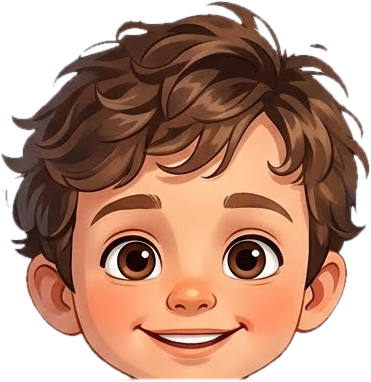
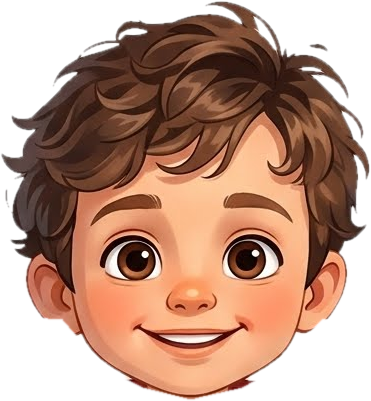
E rig: la cabeza original llega hasta su barbilla y la capucha de la pose A sube por detrás
Claude-Session: https://claude.ai/code/session_01CNkQy23Bon4aNcT4Rd2BkE

diff --git a/tools/split_apose.py b/tools/split_apose.py
@@ -42,6 +42,9 @@ ARM = {
 HAND_BOX = {'l': (205, 725, 285, 845), 'r': (620, 725, 700, 845)}
 CROTCH = 452
 ELBOW_R = 44                           # half the sleeve's width at the elbow
+# the original face's jaw line (outline included), measured on e-full.jpg
+JAW = [(300, 380), (330, 382), (350, 405), (380, 435), (410, 450), (458, 462), (510, 450), (545, 430), (565, 405),
+       (590, 382), (620, 380)]
 NECK_CUT = 440                         # the pose-A head goes, the original one goes on top
 
 # hand sheet: cells in e-pose-a.png coordinates (the x4 sheet starts at (10, 920))
@@ -126,8 +129,11 @@ def main():
     rgb = np.asarray(frame).astype(np.float64)
     alpha = cutout(rgb)
     yy, xx = np.mgrid[0:H, 0:W]
-    alpha = alpha * soft(yy >= NECK_CUT, 1.0)
     r, g, b = rgb[..., 0], rgb[..., 1], rgb[..., 2]
+    # the pose-A head goes; its hood stays (round, behind the original head, which covers the rest)
+    hood = (r > 140) & (g < 90) & (b < 90) & (r - g > 90) & (yy > 300)
+    hood = grow(hood, 1) & (alpha > 0.1)
+    alpha = alpha * np.maximum(soft(yy >= NECK_CUT, 1.0), soft(hood, 0.8))
     mx = rgb.max(axis=2)
     J = {k: np.array(v, float) for k, v in JOINTS.items()}
     os.makedirs(OUT, exist_ok=True)
@@ -219,7 +225,18 @@ def main():
         ex, ey = JOINTS['elbow_' + side]
         meta['hands']['pose_' + side] = {'wrist': [wx - p['x'], wy - p['y']], 'dir': math.degrees(math.atan2(wy - ey, wx - ex))}
         meta['pieces']['hand_pose_' + side] = {'x': 0, 'y': 0}
-    for name in ('head', 'blink', 'jaw'):
+    # the head: the original drawing down to its own jaw line (outline included). head.png of the first rig stops
+    # at y 442, where the hood covered it, and the pose-A hood does not, so the chin would look cut
+    full = Image.alpha_composite(Image.open(os.path.join(E, 'body.png')), Image.open(os.path.join(E, 'head.png')))
+    jaw = np.interp(xx, [x for x, _ in JAW], [y for _, y in JAW])
+    fa = np.asarray(full)[..., 3] / 255.0 * soft(yy < jaw, 0.8)
+    hd = np.asarray(full).copy()
+    hd[..., 3] = (fa * 255).astype(np.uint8)
+    hd[hd[..., 3] == 0] = 0
+    x0, y0, x1, y1 = Image.fromarray(hd).getbbox()
+    Image.fromarray(hd[y0:y1, x0:x1]).save(os.path.join(OUT, 'head.png'), optimize=True)
+    meta['pieces']['head'] = {'x': x0, 'y': y0}
+    for name in ('blink', 'jaw'):
         im = Image.open(os.path.join(E, name + '.png'))
         x0, y0, x1, y1 = im.getbbox()
         im.crop((x0, y0, x1, y1)).save(os.path.join(OUT, name + '.png'), optimize=True)
